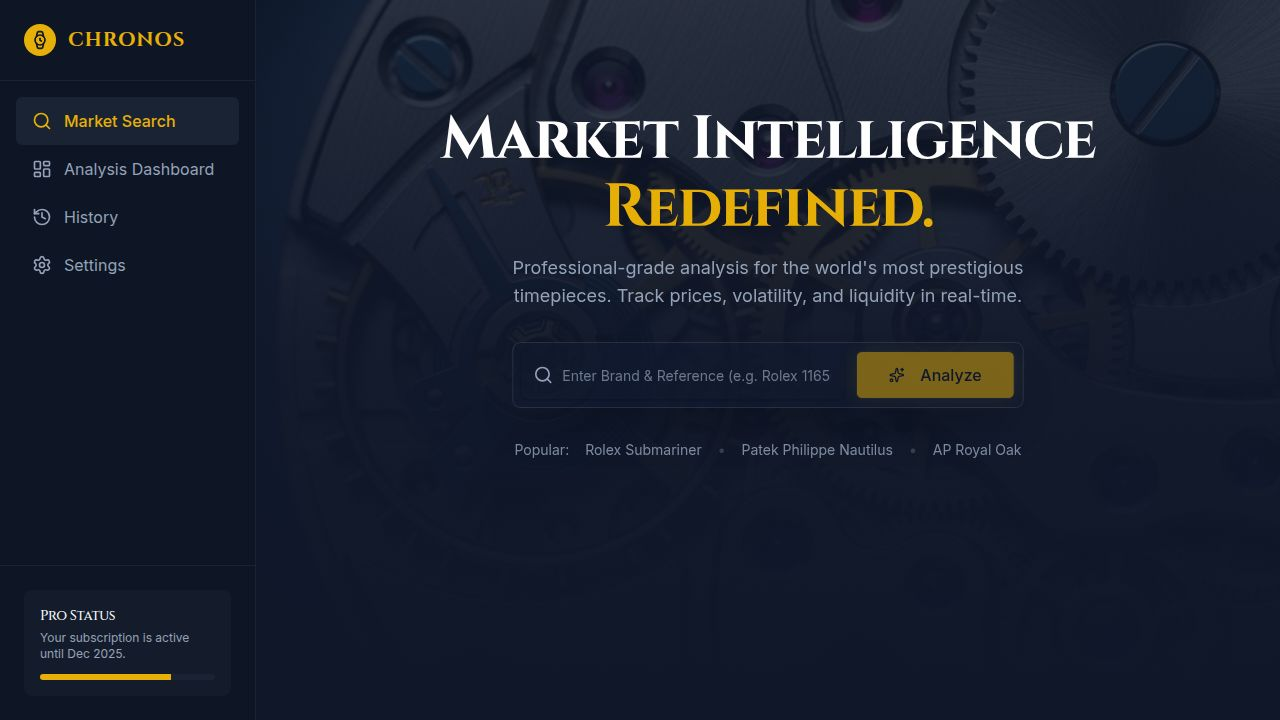
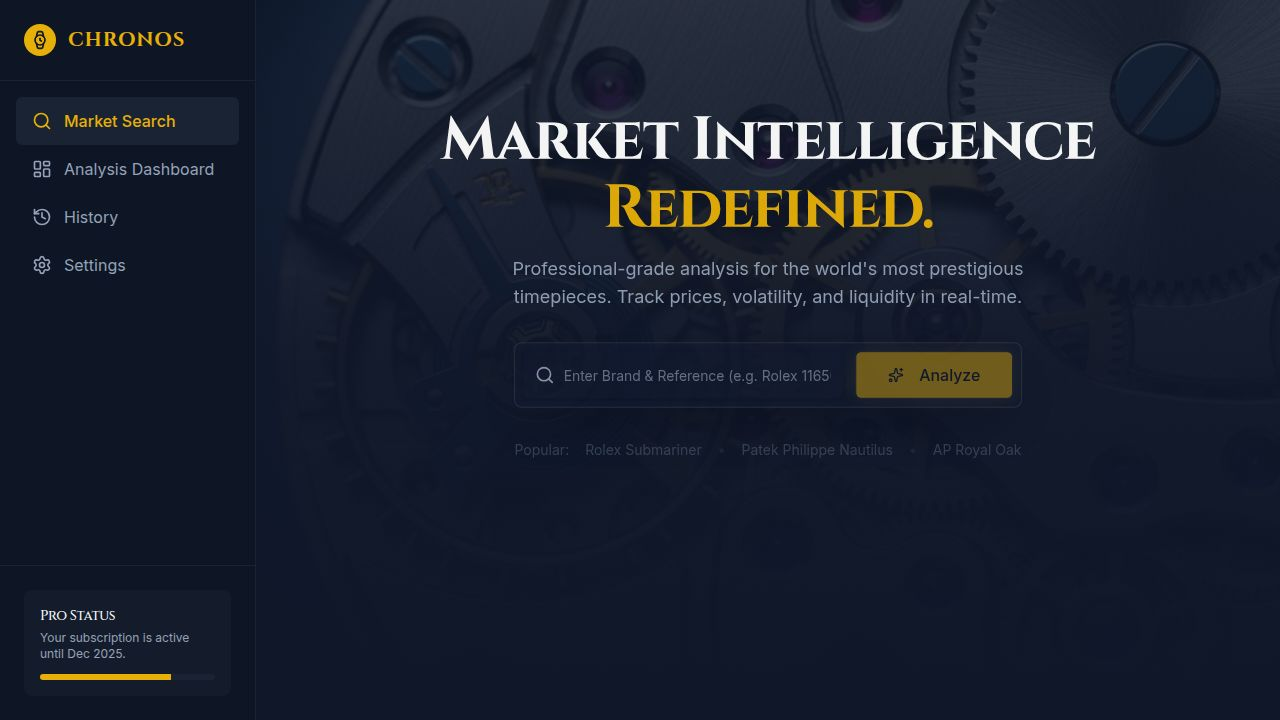
Add PDF export functionality for watch market analysis reports
Adds jsPDF and html2canvas dependencies to package.json and implements an exportToPDF function in dashboard.tsx to generate a PDF report of the watch analysis data.

Replit-Commit-Author: Agent
Replit-Commit-Session-Id: a59e341d-4793-4599-9434-ae7498199be8
Replit-Commit-Checkpoint-Type: full_checkpoint
Replit-Commit-Event-Id: 466436dd-ebdb-4542-b1f7-2b75ad70b86f
Replit-Commit-Screenshot-Url: https://storage.googleapis.com/screenshot-production-us-central1/450e7b1b-00d9-4ddf-87e5-8cc630911f69/a59e341d-4793-4599-9434-ae7498199be8/SV1n68Q
Replit-Helium-Checkpoint-Created: true

diff --git a/client/src/pages/dashboard.tsx b/client/src/pages/dashboard.tsx
@@ -28,6 +28,7 @@ import {
 import { cn } from "@/lib/utils";
 import { getAnalysis, getAnalyses, getMarketDataPoints, getResearchProgress, type ResearchProgress } from "@/lib/api";
 import ReactMarkdown from "react-markdown";
+import jsPDF from "jspdf";
 
 export default function Dashboard() {
   const [, params] = useRoute("/dashboard/:id");
@@ -219,6 +220,120 @@ export default function Dashboard() {
 
   const hasData = (marketData?.length || 0) > 0;
 
+  const exportToPDF = () => {
+    const doc = new jsPDF();
+    const pageWidth = doc.internal.pageSize.getWidth();
+    const margin = 20;
+    const contentWidth = pageWidth - margin * 2;
+    let yPos = 20;
+
+    const addText = (text: string, fontSize: number, isBold: boolean = false, color: number[] = [255, 255, 255]) => {
+      doc.setFontSize(fontSize);
+      doc.setFont("helvetica", isBold ? "bold" : "normal");
+      doc.setTextColor(color[0], color[1], color[2]);
+      const lines = doc.splitTextToSize(text, contentWidth);
+      if (yPos + lines.length * fontSize * 0.5 > doc.internal.pageSize.getHeight() - 20) {
+        doc.addPage();
+        yPos = 20;
+      }
+      doc.text(lines, margin, yPos);
+      yPos += lines.length * fontSize * 0.5 + 4;
+    };
+
+    const addSection = (title: string) => {
+      yPos += 6;
+      doc.setFillColor(212, 175, 55);
+      doc.rect(margin, yPos - 4, 3, 12, "F");
+      addText(title, 14, true, [212, 175, 55]);
+      yPos += 2;
+    };
+
+    doc.setFillColor(15, 15, 15);
+    doc.rect(0, 0, pageWidth, doc.internal.pageSize.getHeight(), "F");
+
+    doc.setFillColor(212, 175, 55);
+    doc.rect(0, 0, pageWidth, 45, "F");
+    doc.setFontSize(24);
+    doc.setFont("helvetica", "bold");
+    doc.setTextColor(15, 15, 15);
+    doc.text("CHRONOS", margin, 25);
+    doc.setFontSize(10);
+    doc.setFont("helvetica", "normal");
+    doc.text("Market Intelligence Brief", margin, 35);
+    doc.setFontSize(10);
+    doc.text(new Date().toLocaleDateString("en-US", { year: "numeric", month: "long", day: "numeric" }), pageWidth - margin - 50, 35);
+
+    yPos = 60;
+
+    doc.setFontSize(22);
+    doc.setFont("helvetica", "bold");
+    doc.setTextColor(255, 255, 255);
+    doc.text(`${analysis.brand} ${analysis.model}`, margin, yPos);
+    yPos += 10;
+    if (analysis.reference && analysis.reference !== "N/A") {
+      doc.setFontSize(12);
+      doc.setFont("helvetica", "normal");
+      doc.setTextColor(160, 160, 160);
+      doc.text(`Reference: ${analysis.reference}`, margin, yPos);
+      yPos += 10;
+    }
+
+    yPos += 5;
+    if (analysis.executiveSummary) {
+      addSection("Executive Summary");
+      const summaryText = analysis.executiveSummary.replace(/\*\*/g, "").replace(/\n+/g, " ").trim();
+      addText(summaryText, 10, false, [200, 200, 200]);
+    }
+
+    if (analysis.conditionPricing && Array.isArray(analysis.conditionPricing) && (analysis.conditionPricing as any[]).length > 0) {
+      addSection("Condition-Based Pricing");
+      (analysis.conditionPricing as any[]).forEach((row) => {
+        const soldRange = row.soldRangeLow && row.soldRangeHigh ? `$${row.soldRangeLow.toLocaleString()} - $${row.soldRangeHigh.toLocaleString()}` : "N/A";
+        const askingRange = row.askingRangeLow && row.askingRangeHigh ? `$${row.askingRangeLow.toLocaleString()} - $${row.askingRangeHigh.toLocaleString()}` : "N/A";
+        addText(`${row.condition}: Sold ${soldRange} | Asking ${askingRange}`, 10, false, [200, 200, 200]);
+      });
+    }
+
+    if (analysis.priceTrends) {
+      addSection("Price Trends");
+      const trendsText = analysis.priceTrends.replace(/\*\*/g, "").replace(/\*\s*/g, "- ").replace(/\n+/g, " ").trim();
+      addText(trendsText, 10, false, [200, 200, 200]);
+    }
+
+    if (analysis.marketAnalysis) {
+      addSection("Market Analysis");
+      const analysisText = analysis.marketAnalysis.replace(/\*\*/g, "").replace(/\n+/g, " ").trim();
+      addText(analysisText, 10, false, [200, 200, 200]);
+    }
+
+    if (marketData && marketData.length > 0) {
+      addSection("Market Data Summary");
+      const soldPrices = marketData.filter(d => d.priceType === "Sold").map(d => d.price);
+      const askingPrices = marketData.filter(d => d.priceType === "Asking").map(d => d.price);
+      if (soldPrices.length > 0) {
+        const avgSold = Math.round(soldPrices.reduce((a, b) => a + b, 0) / soldPrices.length);
+        addText(`Average Sold Price: $${avgSold.toLocaleString()} (${soldPrices.length} transactions)`, 10, false, [100, 200, 100]);
+      }
+      if (askingPrices.length > 0) {
+        const avgAsking = Math.round(askingPrices.reduce((a, b) => a + b, 0) / askingPrices.length);
+        addText(`Average Asking Price: $${avgAsking.toLocaleString()} (${askingPrices.length} listings)`, 10, false, [100, 150, 255]);
+      }
+      addText(`Total Data Points: ${marketData.length}`, 10, false, [200, 200, 200]);
+    }
+
+    const pageCount = doc.internal.pages.length - 1;
+    for (let i = 1; i <= pageCount; i++) {
+      doc.setPage(i);
+      doc.setFontSize(8);
+      doc.setTextColor(100, 100, 100);
+      doc.text(`Page ${i} of ${pageCount}`, pageWidth / 2, doc.internal.pageSize.getHeight() - 10, { align: "center" });
+      doc.text("Generated by Chronos - Luxury Watch Market Intelligence", pageWidth / 2, doc.internal.pageSize.getHeight() - 5, { align: "center" });
+    }
+
+    const fileName = `Chronos_${analysis.brand}_${analysis.model}_${analysis.reference || "Brief"}.pdf`.replace(/\s+/g, "_");
+    doc.save(fileName);
+  };
+
   return (
     <Layout>
       <div className="p-6 md:p-8 space-y-8 max-w-7xl mx-auto">
@@ -252,7 +367,11 @@ export default function Dashboard() {
             <Button variant="outline" className="gap-2 border-border hover:bg-secondary hover:text-foreground">
               <Share2 className="w-4 h-4" /> Share
             </Button>
-            <Button className="gap-2 bg-primary text-primary-foreground hover:bg-primary/90 shadow-[0_0_15px_rgba(234,179,8,0.3)]">
+            <Button 
+              onClick={exportToPDF}
+              className="gap-2 bg-primary text-primary-foreground hover:bg-primary/90 shadow-[0_0_15px_rgba(234,179,8,0.3)]"
+              data-testid="button-export-brief"
+            >
               <Download className="w-4 h-4" /> Export Brief
             </Button>
           </div>
